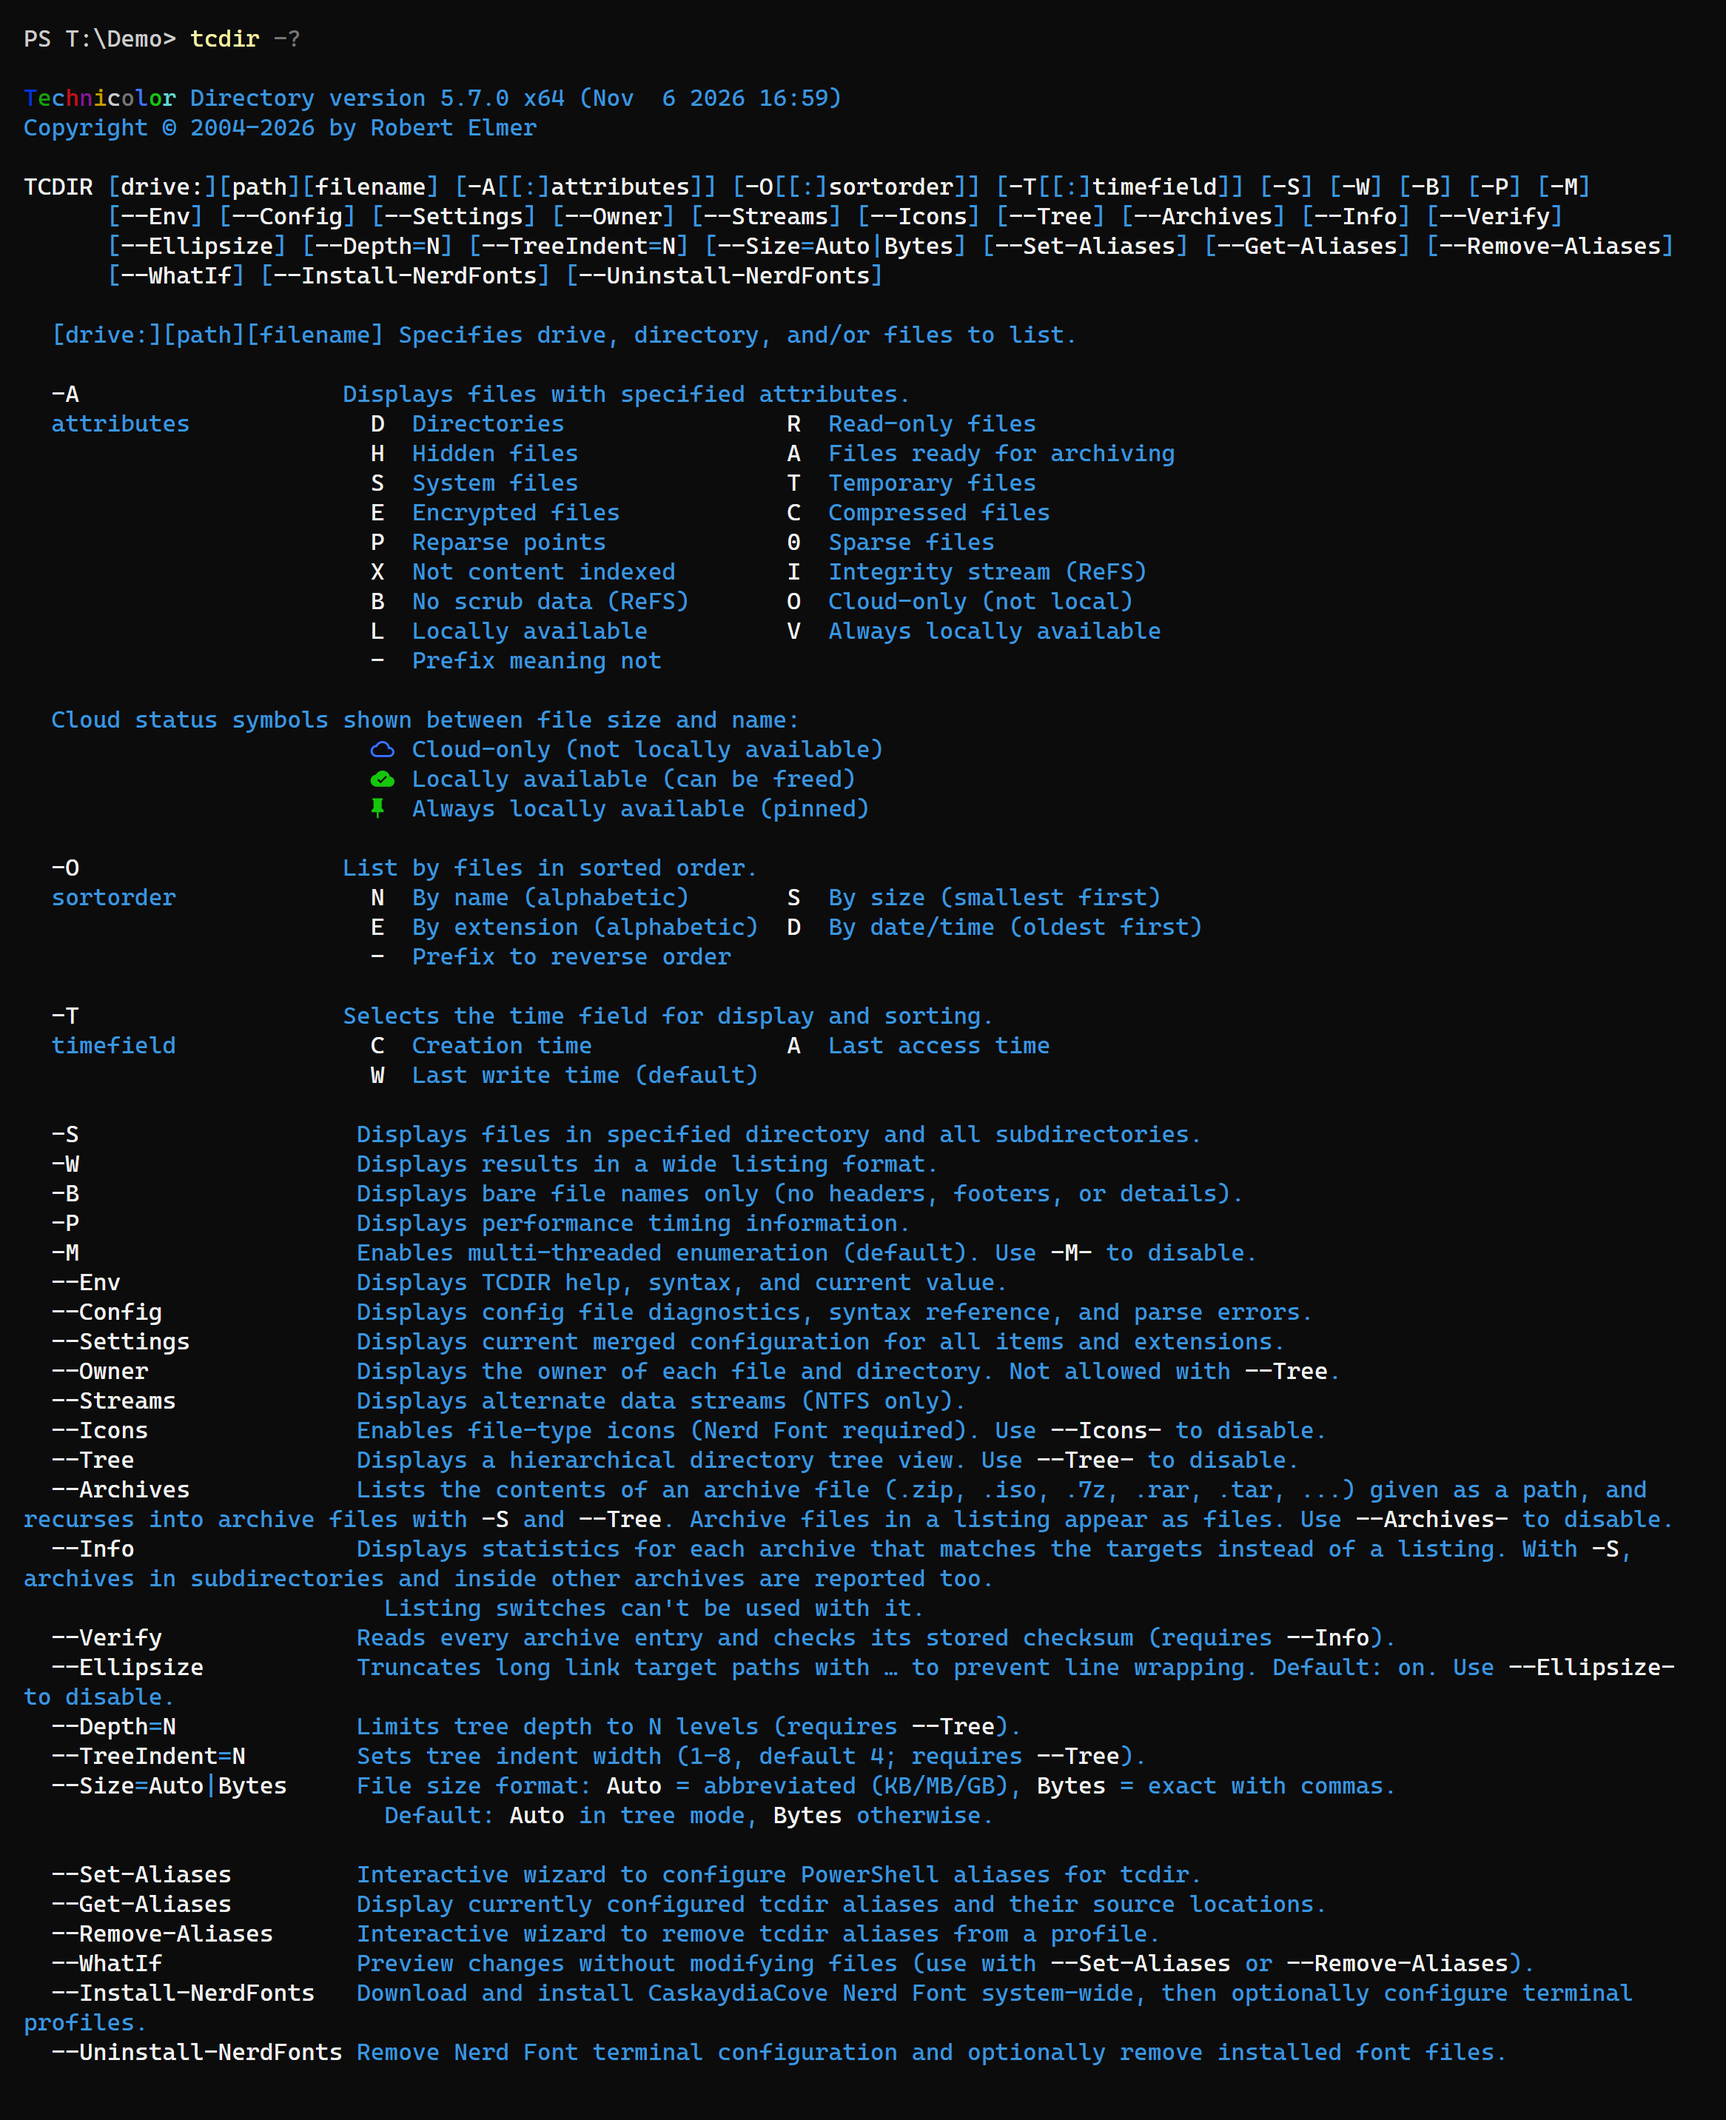
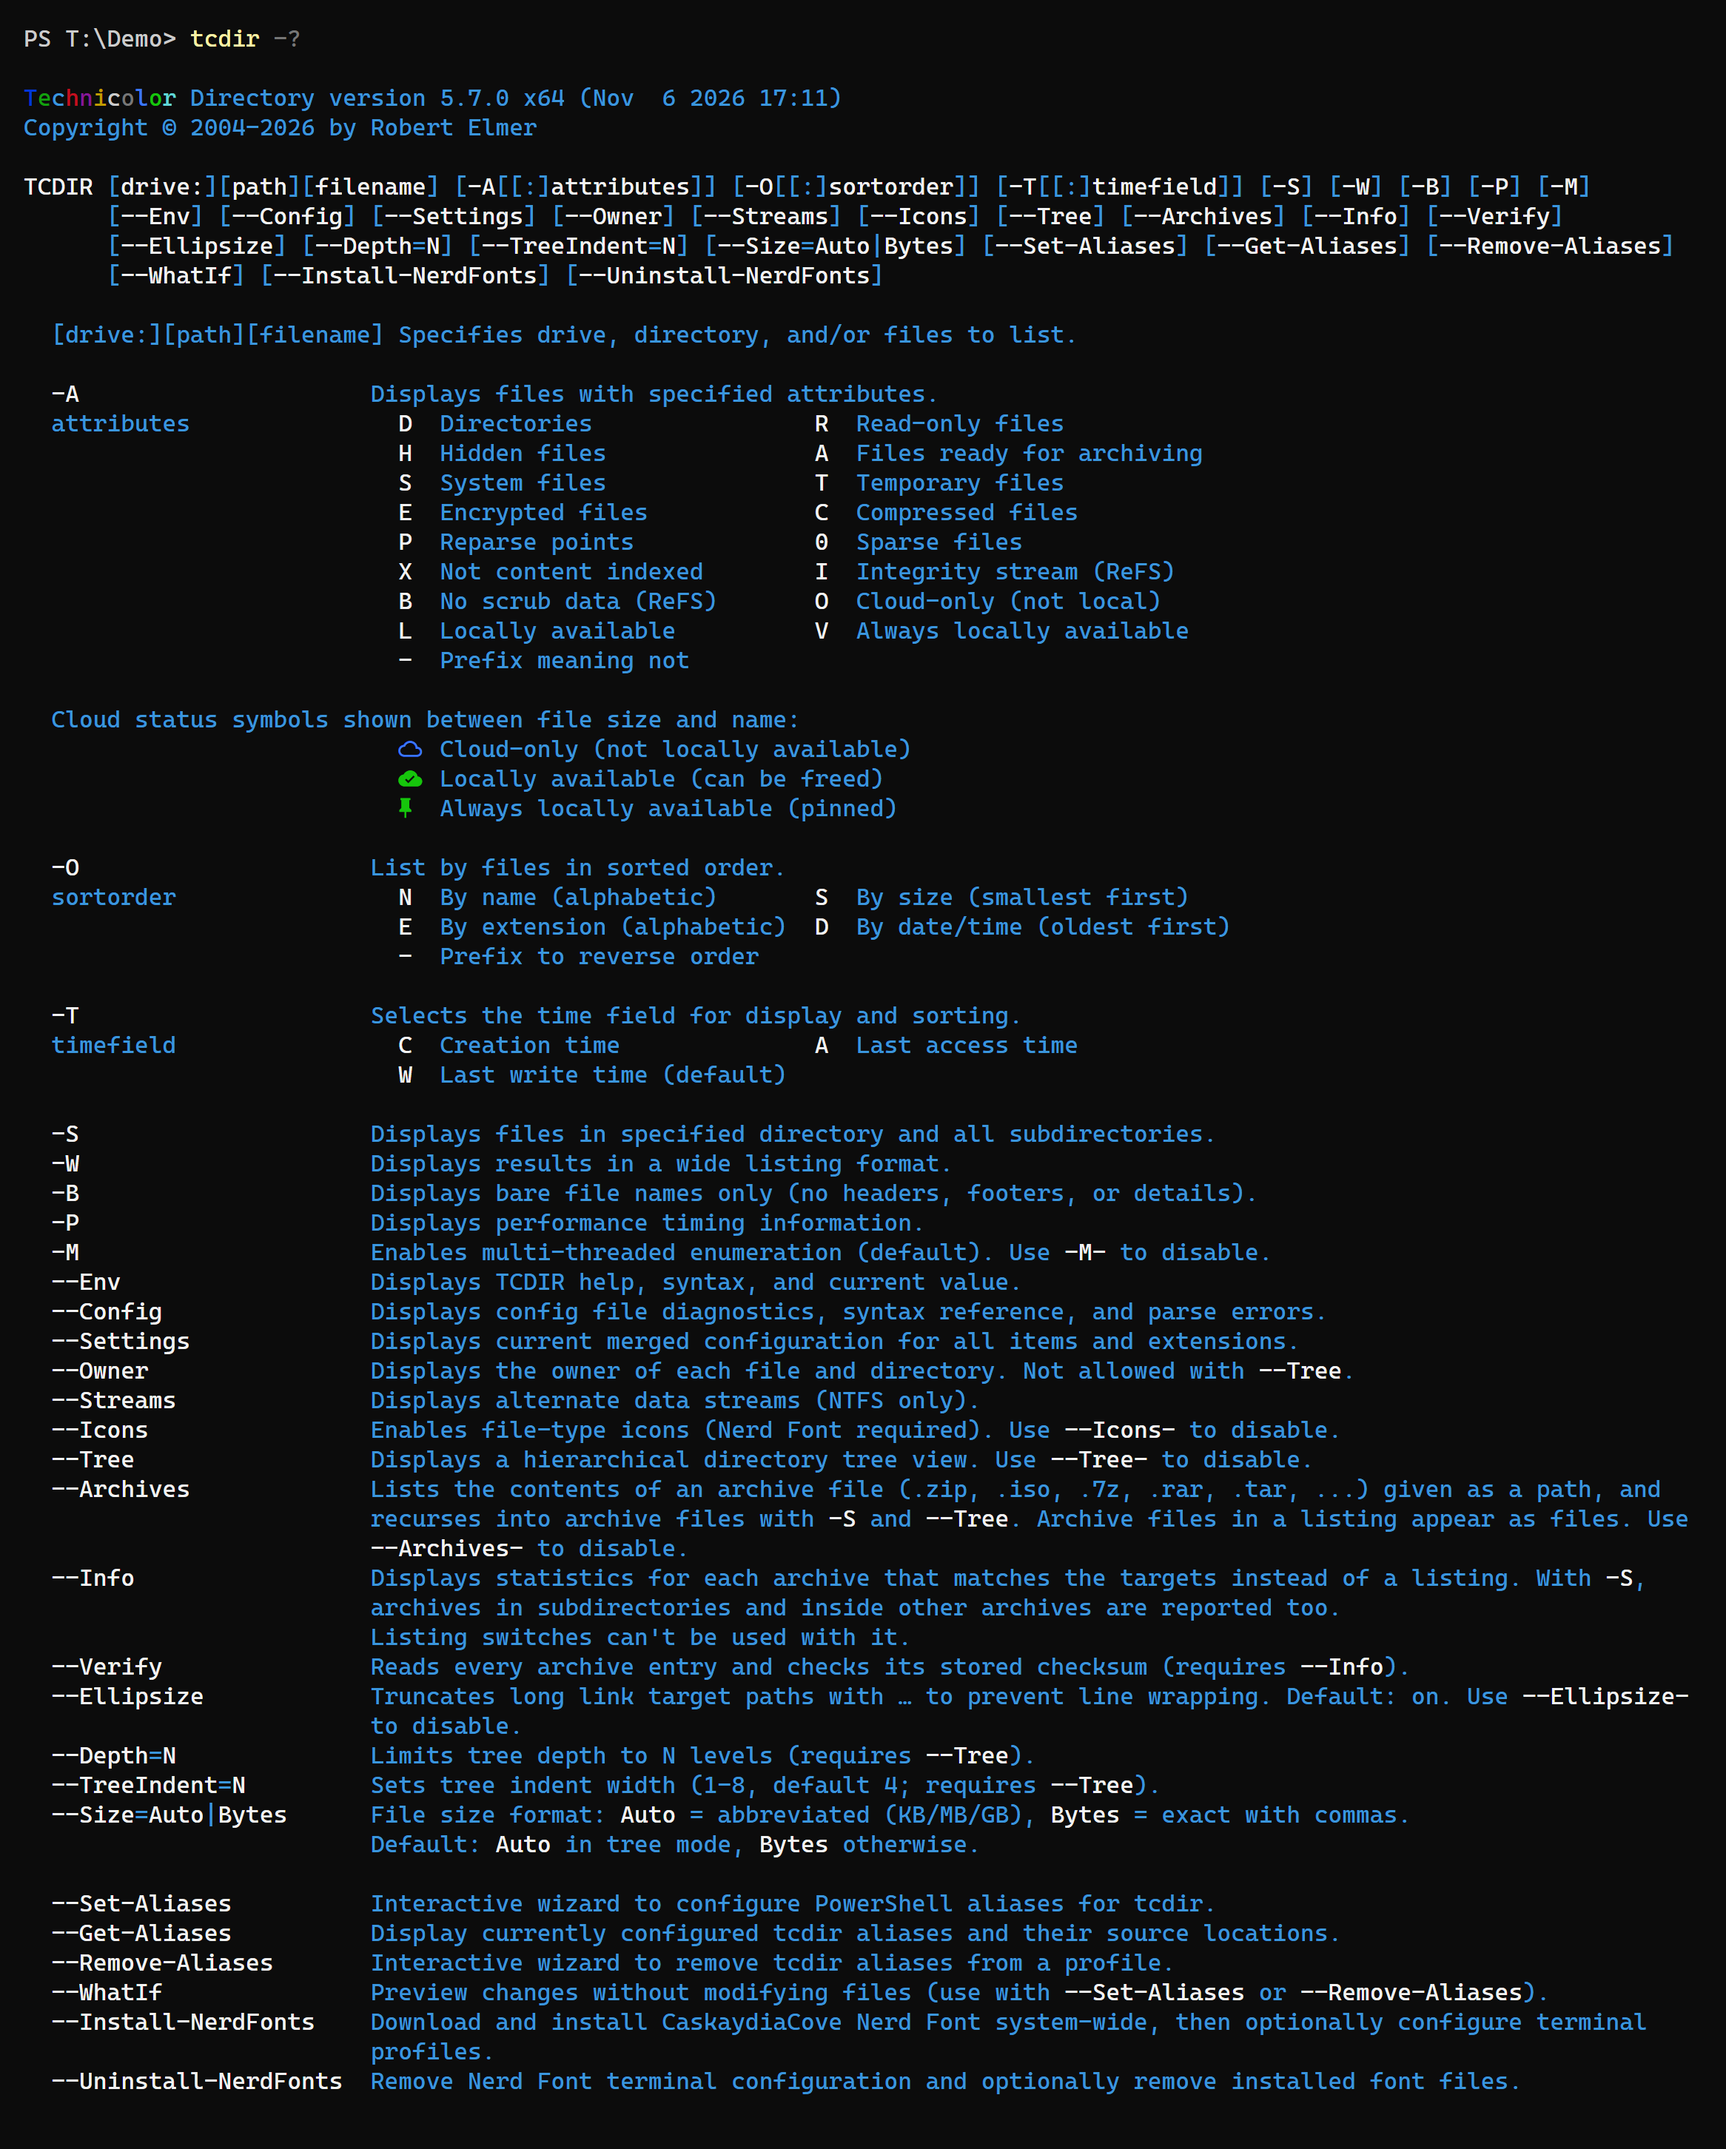
fix(usage): Wrap help descriptions to the description column

diff --git a/TCDirCore/Usage.cpp b/TCDirCore/Usage.cpp
@@ -332,13 +332,74 @@ static int GetMaxVisibleWidth (const vector<wstring> & values)
 
 ////////////////////////////////////////////////////////////////////////////////
 //
+//  AppendWrappedText
+//
+//  Appends words starting at column col.  A word that would pass cxConsole
+//  starts a new line indented to descCol.  Color markers stay attached to
+//  their words, so a color set before a break applies after it too.
+//
+////////////////////////////////////////////////////////////////////////////////
+
+static void AppendWrappedText (wstring    & text,
+                               int          col,
+                               int          descCol,
+                               int          cxConsole,
+                               wstring_view description)
+{
+    constexpr int s_kcchMinWrapWidth = 20;
+
+    bool   fWrap      = cxConsole - descCol >= s_kcchMinWrapWidth;
+    bool   fLineEmpty = true;
+    size_t ich        = 0;
+
+
+
+    while (ich < description.size())
+    {
+        size_t       ichEnd = description.find (L' ', ich);
+        wstring_view word   = description.substr (ich, ichEnd == wstring_view::npos ? wstring_view::npos : ichEnd - ich);
+        int          cxWord = MeasureVisibleWidth (word);
+
+        ich = (ichEnd == wstring_view::npos) ? description.size() : ichEnd + 1;
+
+        if (!fLineEmpty && fWrap && col + 1 + cxWord > cxConsole)
+        {
+            text.push_back (L'\n');
+            text.append (descCol, L' ');
+            col        = descCol;
+            fLineEmpty = true;
+        }
+
+        if (!fLineEmpty)
+        {
+            text.push_back (L' ');
+            ++col;
+        }
+
+        text.append (word);
+        col        += cxWord;
+        fLineEmpty  = false;
+    }
+
+    text.push_back (L'\n');
+}
+
+
+
+
+////////////////////////////////////////////////////////////////////////////////
+//
 //  AppendAlignedRow
+//
+//  Appends a label and its description.  A description longer than the
+//  console width wraps, and each wrapped line starts at descCol.
 //
 ////////////////////////////////////////////////////////////////////////////////
 
 static void AppendAlignedRow (wstring    & text,
                               int          indent,
                               int          descCol,
+                              int          cxConsole,
                               wstring_view label,
                               wstring_view description)
 {
@@ -348,8 +409,8 @@ static void AppendAlignedRow (wstring    & text,
     text.append (indent, L' ');
     text.append (label);
     text.append (pad, L' ');
-    text.append (description);
-    text.push_back (L'\n');
+
+    AppendWrappedText (text, labelEnd + pad, descCol, cxConsole, description);
 }
 
 
@@ -701,10 +762,12 @@ void CUsage::DisplayUsage (CConsole & console, wchar_t chPrefix, optional<bool> 
 
     constexpr int  INDENT                     = 2;
     constexpr int  COLUMN_GAP                 = 1;
+    constexpr int  LABEL_GAP                  = 2;
     constexpr int  SUBLEVEL_DETAIL_OFFSET     = 2;
     constexpr int  SUBLEVEL_SECOND_COL_OFFSET = 30;
-    constexpr int  SIZE_CONTINUATION_OFFSET   = 2;
     constexpr int  CLOUD_ICON_DESC_GAP        = 2;
+
+    int cxConsole = static_cast<int> (console.GetWidth());
 
     vector<SUsageOptionRow> primaryRows = BuildPrimaryOptionRows (szShort, pszLong, pszMDisable);
     vector<SUsageOptionRow> aliasRows   = BuildAliasRows (pszLong);
@@ -727,20 +790,19 @@ void CUsage::DisplayUsage (CConsole & console, wchar_t chPrefix, optional<bool> 
         optionLabels.push_back (row.label);
     }
 
-    int optionDescCol      = INDENT + GetMaxVisibleWidth (optionLabels) + COLUMN_GAP;
-    int sectionDescCol     = optionDescCol - 1;
+    int optionDescCol      = INDENT + GetMaxVisibleWidth (optionLabels) + LABEL_GAP;
+    int sectionDescCol     = optionDescCol;
     int subLevelDetailCol  = sectionDescCol + SUBLEVEL_DETAIL_OFFSET;
-    int continuationCol    = optionDescCol + SIZE_CONTINUATION_OFFSET;
 
     wstring usageBody (L"{Information}\n");
 
-    AppendAlignedRow (usageBody, INDENT, optionDescCol,
+    AppendAlignedRow (usageBody, INDENT, optionDescCol, cxConsole,
                       L"[drive:][path][filename]",
                       L"Specifies drive, directory, and/or files to list.");
 
     usageBody.push_back (L'\n');
 
-    AppendAlignedRow (usageBody, INDENT, sectionDescCol,
+    AppendAlignedRow (usageBody, INDENT, sectionDescCol, cxConsole,
                       primaryRows[0].label,
                       primaryRows[0].description);
 
@@ -773,7 +835,7 @@ void CUsage::DisplayUsage (CConsole & console, wchar_t chPrefix, optional<bool> 
 
     usageBody.push_back (L'\n');
 
-    AppendAlignedRow (usageBody, INDENT, sectionDescCol,
+    AppendAlignedRow (usageBody, INDENT, sectionDescCol, cxConsole,
                       primaryRows[1].label,
                       primaryRows[1].description);
 
@@ -788,7 +850,7 @@ void CUsage::DisplayUsage (CConsole & console, wchar_t chPrefix, optional<bool> 
 
     usageBody.push_back (L'\n');
 
-    AppendAlignedRow (usageBody, INDENT, sectionDescCol,
+    AppendAlignedRow (usageBody, INDENT, sectionDescCol, cxConsole,
                       primaryRows[2].label,
                       primaryRows[2].description);
 
@@ -805,13 +867,12 @@ void CUsage::DisplayUsage (CConsole & console, wchar_t chPrefix, optional<bool> 
     for (size_t i = 3; i < primaryRows.size(); ++i)
     {
         const SUsageOptionRow & row = primaryRows[i];
-        AppendAlignedRow (usageBody, INDENT, optionDescCol, row.label, row.description);
+        AppendAlignedRow (usageBody, INDENT, optionDescCol, cxConsole, row.label, row.description);
 
         if (!row.continuation.empty())
         {
-            usageBody.append (continuationCol, L' ');
-            usageBody.append (row.continuation);
-            usageBody.push_back (L'\n');
+            usageBody.append (optionDescCol, L' ');
+            AppendWrappedText (usageBody, optionDescCol, optionDescCol, cxConsole, row.continuation);
         }
     }
 
@@ -819,7 +880,7 @@ void CUsage::DisplayUsage (CConsole & console, wchar_t chPrefix, optional<bool> 
 
     for (const SUsageOptionRow & row : aliasRows)
     {
-        AppendAlignedRow (usageBody, INDENT, optionDescCol, row.label, row.description);
+        AppendAlignedRow (usageBody, INDENT, optionDescCol, cxConsole, row.label, row.description);
     }
 
     console.ColorPuts (usageBody.c_str());

diff --git a/CHANGELOG.md b/CHANGELOG.md
@@ -27,6 +27,7 @@ All notable changes to TCDir are documented in this file.
 - `scripts\New-Screenshots.ps1` regenerates the README screenshots from a staged demo folder
 
 ### Fixed
+- Help descriptions longer than the console width wrap to the description column instead of the left edge, and every description starts at the same column
 - `Tree` and `Ellipsize` are added to the switch help in `--Env` and `--Config`, and to the decoded `TCDIR` settings in `--Env` when they appear in `TCDIR`
 
 ## [5.6.1] - 2026-07-28
